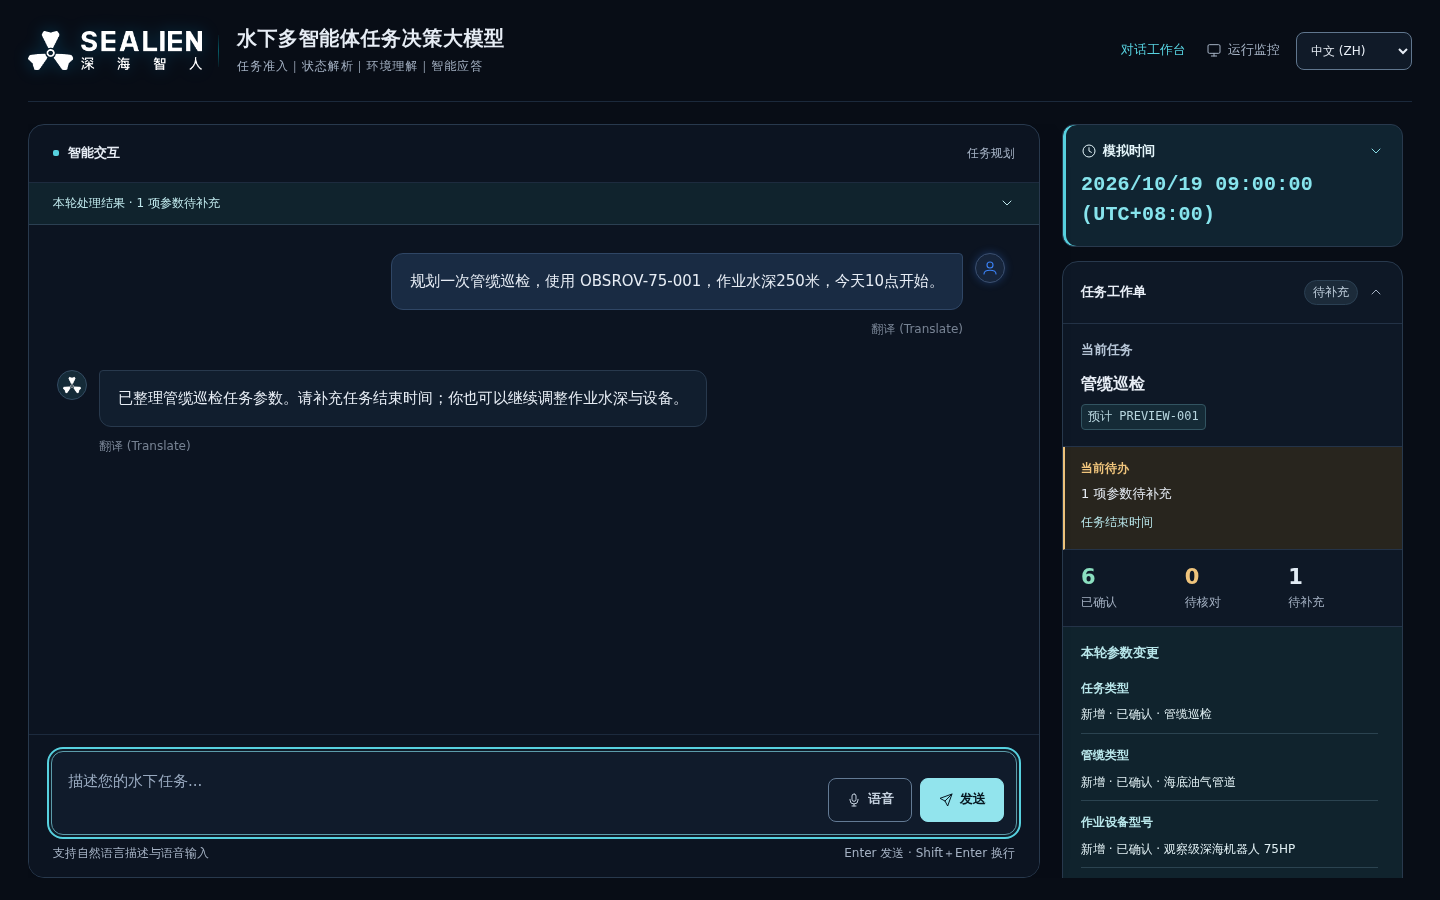
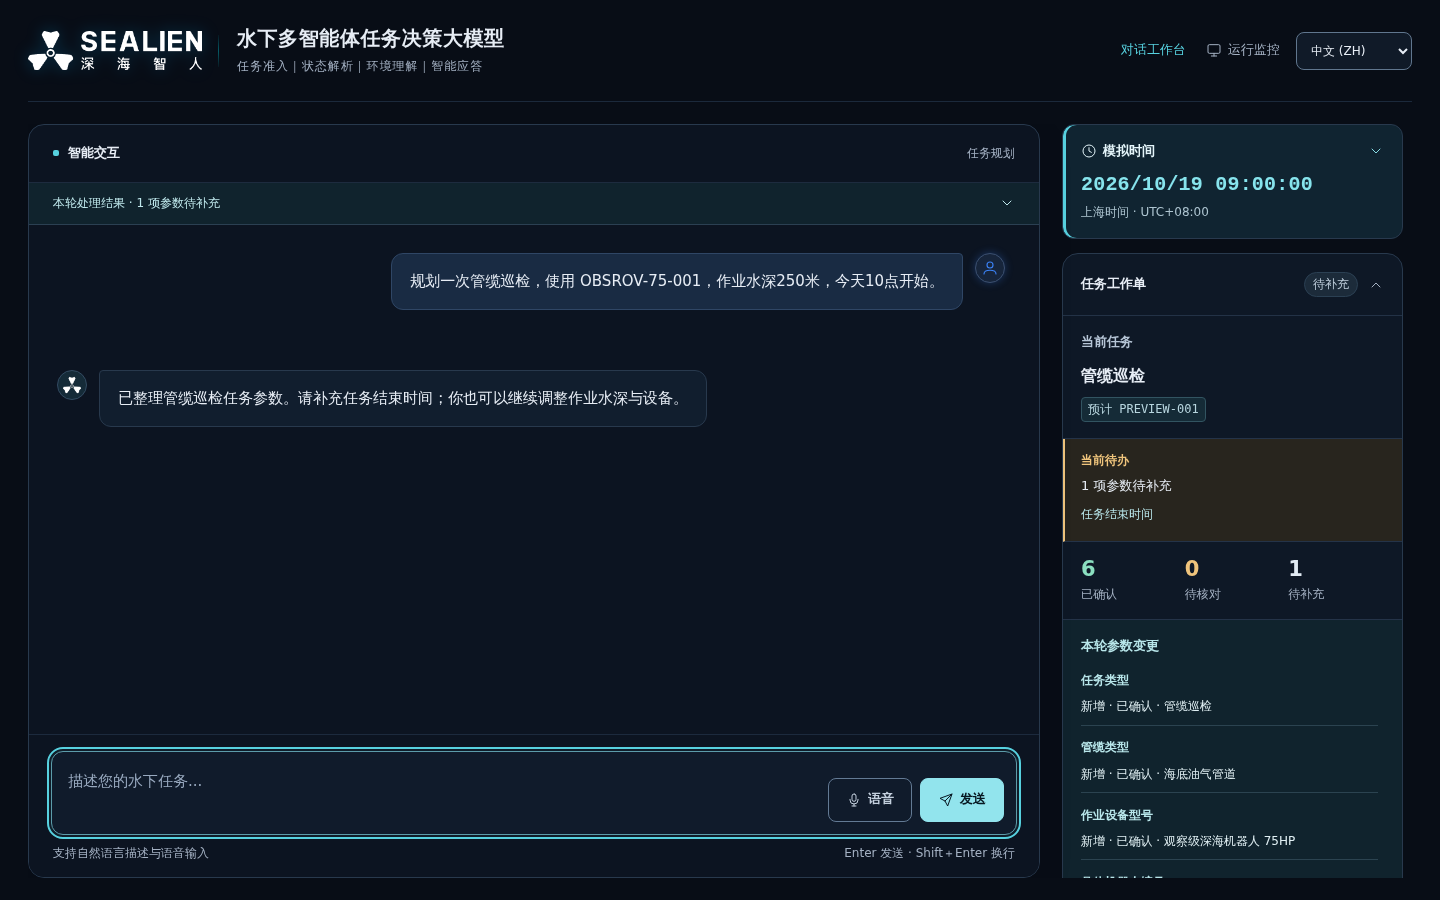
docs: update changelog, docs index, and workspace preview records

diff --git a/docs/ui-preview/index.html b/docs/ui-preview/index.html
@@ -18,7 +18,8 @@
   <section id="monitor"><h2>运行监控</h2><figure><a href="dashboard-desktop.png"><img loading="lazy" src="dashboard-desktop.png" alt="网关任务监控，发送记录与执行反馈独立显示"></a><figcaption>服务端接收遥测时间与浏览器成功拉取时间分别显示。</figcaption></figure>
   <h2>拉取失败后的快照提示</h2><figure><a href="dashboard-snapshot-retained.png"><img loading="lazy" src="dashboard-snapshot-retained.png" alt="连接更新失败，界面保留已有数据并提示旧快照"></a><figcaption>保留最近数据，同时明确其不代表当前状态。</figcaption></figure></section>
   <section id="welcome"><h2>初始首屏</h2><figure><a href="desktop.png"><img loading="lazy" src="desktop.png" alt="桌面初始首屏，知识查询和任务创建入口"></a></figure>
-  <h2>手机布局</h2><div class="pair"><figure class="mobile"><a href="mobile.png"><img loading="lazy" src="mobile.png" alt="手机首屏"></a><figcaption>首屏与折叠工作单</figcaption></figure><figure class="mobile"><a href="task-mobile.png"><img loading="lazy" src="task-mobile.png" alt="手机展开任务工作单与确认摘要"></a><figcaption>展开工作单，可滚动核对字段</figcaption></figure></div></section>
+  <h2>手机任务快捷入口</h2><figure class="mobile"><a href="mobile-task-shortcut.png"><img loading="lazy" src="mobile-task-shortcut.png" alt="手机输入区上方显示任务状态快捷入口，点击可直达工作单"></a><figcaption>入口显示当前任务状态，跳转保留输入草稿；翻译操作在手机端持续可见。</figcaption></figure>
+  <h2>手机布局</h2><div class="pair"><figure class="mobile"><a href="mobile.png"><img loading="lazy" src="mobile.png" alt="手机首屏"></a><figcaption>首屏与任务空态</figcaption></figure><figure class="mobile"><a href="task-mobile.png"><img loading="lazy" src="task-mobile.png" alt="手机展开任务工作单与确认摘要"></a><figcaption>展开工作单，可滚动核对字段</figcaption></figure></div></section>
   <p>本页可直接在浏览器中打开，不需要启动后端；点击截图可查看原图。</p>
 </main>
 </html>

diff --git a/CHANGELOG.md b/CHANGELOG.md
@@ -10,6 +10,106 @@ The format is based on [Keep a Changelog](https://keepachangelog.com/en/1.0.0/).
 
 ## [Unreleased]
 
+### Added & Enhanced — 任务核对优化、移动端工作台与无障碍交互（2026-10-27）
+
+- **工作台字段分组与参数输入引导**：
+  - [frontend/js/task-insights.js](frontend/js/task-insights.js) 引入基于 Section 的参数分组聚合渲染（任务基础属性、时空与环境约束、机器人与执行负载），按业务重要性与填报状态动态排序与状态着色。
+  - 新增参数焦点引导机制（Parameter Focus Guidance），当关键参数缺失时高亮提示并联动输入框聚焦，引导用户高效补充缺失项。
+- **确认卡片紧凑摘要与折叠详情**：
+  - [frontend/js/task-insights.js](frontend/js/task-insights.js) 与 [frontend/css/workspace.css](frontend/css/workspace.css) 重构确认卡片：主区域紧凑展示核心决策字段（任务类型、作业区域、执行设备、启动与持续时间），次要参数与扩展元数据收拢至“查看完整参数详情”折叠面板中，降低用户决策认知负荷。
+- **移动端工作表快捷栏与状态深度同步**：
+  - [frontend/js/workspace.js](frontend/js/workspace.js) 新增移动端（`max-width: 760px`）底部快捷任务栏，引入 `hadActiveTask` 追踪机制，解决移动端初始化空白状态与任务进入时工作表展开/收起（`aria-expanded`）的可见性冲突；支持快速一键直达工作表标题而不丢失当前输入草稿。
+- **翻译条交互与键盘无障碍访问修复**：
+  - [frontend/css/workspace.css](frontend/css/workspace.css) 优化 `msg-translate-bar` CSS 选择器作用域为 `.message:not(:hover):not(:focus-within) .msg-translate-bar[data-translation-state="idle"]`，修复键盘 Tab 键焦点无法触发翻译工具栏显示的样式特异性（specificity）Bug。
+- **UI 资产更新与全量 Playwright 浏览器自动化回归**：
+  - 新增 `docs/ui-preview/task-next-step.png` 与 `docs/ui-preview/confirmation-detail.png` 等多端实测预览图；
+  - 新增 [tests/test_frontend_workspace_browser.py](tests/test_frontend_workspace_browser.py) 浏览器自动化测试套件；
+  - 经验证：Playwright 端到端浏览器测试 74 项用例 100% 通过（67.18s）。
+
+### Fixed & Enhanced — 真实遥测时效对齐与多轮事实锚定 Grounding（2026-10-26）
+
+- **统一遥测新鲜度门禁（Telemetry Freshness Grounding）**：
+  - 新增 [src/telemetry_evidence.py](src/telemetry_evidence.py) 与增强 [src/state/runtime_checker.py](src/state/runtime_checker.py)，建立全局统一遥测时效检查器；严格区分当前新鲜遥测（fresh ≤ 300s）、已过期遥测（stale）与未来预约任务（future scheduled），防止调度器将未来预约任务错误当作当前环境生效。
+- **大模型 Prompt 与回复事实硬锚定（Reply Grounding）**：
+  - [src/handlers/write_reply_grounder.py](src/handlers/write_reply_grounder.py) 与 [src/handlers/task_structure_grounding.py](src/handlers/task_structure_grounding.py) 强化写操作回复事实核验：仅当底层 SlotStore 存在已持久化的真实修改时，才允许模型回复确认或已保存；杜绝大模型在参数被拦截或未生效时回复幻觉。
+- **假设性时间预览与增量载荷解析**：
+  - 新增 [src/handlers/hypothetical_time_preview.py](src/handlers/hypothetical_time_preview.py)，支持“如果现在启动…预计何时结束”等假设性提问的推演预览，不污染当前会话的物理槽位。
+  - [src/handlers/payload_mutation.py](src/handlers/payload_mutation.py) 修复增量列表修改时的目录前缀同步。
+- **海博会演示脚本与现场记录归档**：
+  - 整理并新增 [docs/development/haibo-demo-dialogue.md](docs/development/haibo-demo-dialogue.md)、[docs/development/haibo-demo-dialogue-record-20261021.md](docs/development/haibo-demo-dialogue-record-20261021.md) 以及 [docs/development/haibo-demo-five-hour-submission.md](docs/development/haibo-demo-five-hour-submission.md)，记录 7 轮真实场景演练测试用例。
+
+### Added & Enhanced — 实体抽取稳定化、机器人可行性域选择与品牌资产（2026-10-21）
+
+- **多模态参数标量抽取与时序解析稳定化**：
+  - [src/temporal/temporal_parser.py](src/temporal/temporal_parser.py) 与 [src/temporal/relative_time_parser.py](src/temporal/relative_time_parser.py) 支持小数（如“1.5小时”）与复合持续时间解析。
+  - [src/extraction/coord_parser.py](src/extraction/coord_parser.py) 重构空间坐标提取，增强边界范围检测与起止点约束推断；支持 `water_depth` 水深与 `cable_type` 海缆类型等领域标量参数的精准绑定。
+- **机器人静态可行性硬过滤（Robot Feasibility Filtering）**：
+  - [src/dispatch/catalog_resolver.py](src/dispatch/catalog_resolver.py) 与 [src/knowledge/selection_engine.py](src/knowledge/selection_engine.py) 接入变体静态参数（作业水深上限、载荷承载阈值），在候选池初筛阶段剔除不符合物理条件的机器人型号或系列。
+- **写操作回复事实核验与子句级历史作用域隔离**：
+  - [src/handlers/explicit_value_grounding.py](src/handlers/explicit_value_grounding.py) 与 [src/handlers/oilfield_confirmation.py](src/handlers/oilfield_confirmation.py) 引入子句级撤回与冲突保护，用户在修改参数或否定旧参数时精确清除旧事实，避免历史槽位脏读。
+- **SEALIEN 品牌视觉资产与无损图标接入**：
+  - 引入 SEALIEN 官方蓝色/白色高保真 Logo、69x69 无损螺旋桨 Mark 图标与全套 favicon 资产，统一前端工作台视觉规范。
+  - 新增 [docs/architecture/session-confirmation-recovery.md](docs/architecture/session-confirmation-recovery.md) 文档。
+
+### Refactored — 机器人单机解析上下文增强与设备级联重构（2026-10-20）
+
+- **单机编号注入父级系列与型号上下文**：
+  - [src/knowledge/unit_resolver.py](src/knowledge/unit_resolver.py) 与 [src/handlers/equipment_cascade.py](src/handlers/equipment_cascade.py) 重构：在 Unit 单机编号解析（如“1号机/2号机”）时主动注入父级 Family（系列）和 Variant（型号）上下文，消除同名编号在不同型号间的歧义绑定。
+- **设备多级从属交互推导**：
+  - 优化 [src/knowledge/selection_engine.py](src/knowledge/selection_engine.py) 与 [src/knowledge/query_executor.py](src/knowledge/query_executor.py)，支持采油树（“深海1号”）级联推导相关水下阀门和机器人组别。
+
+### Added — 前端遥测仪表板与实时确认卡片集成（2026-10-19）
+
+- **前端遥测仪表板（LLM Telemetry Dashboard）**：
+  - [frontend/index.html](frontend/index.html) 与 [frontend/js/index.js](frontend/js/index.js) 集成模型性能与遥测状态看板，实时直观展示上下文预算（context tokens）、推理耗时、网络延迟与遥测新鲜度状态灯。
+- **结构化确认卡片交互组件**：
+  - 在消息流中提供结构化确认卡片，支持多行核对、约束状态展示与一键交互。
+- **矢量图标与现代 UI 资产扩充**：
+  - 新增 11 个现代纯矢量 SVG 图标（`clock.svg`, `edit.svg`, `history.svg`, `mic.svg`, `publish.svg`, `reset.svg`, `stop.svg`, `send.svg` 等），提升界面工程质感。
+
+### Added & Fixed — 整轮编辑保护、时序范围隔离与工作台增强（2026-10-19）
+
+- **整轮编辑保护与断言范围检测（Whole-Turn Edit Protection）**：
+  - 新增 [src/extraction/assertion_scope.py](src/extraction/assertion_scope.py)，在单轮多子句输入中识别撤销、修改与保持语句的作用域边界。
+- **时序与载荷跨轮隔离保护**：
+  - 在 [src/temporal/temporal_parser.py](src/temporal/temporal_parser.py) 和 [src/handlers/payload_mutation.py](src/handlers/payload_mutation.py) 中接入断言作用域，防止用户在一句话中提到“不要A只要B”时旧状态污染。
+- **会话竞态 HTTP 409 保护**：
+  - 在 [src/web/routes_chat.py](src/web/routes_chat.py) 中增加会话并发重置/查询互斥保护，当客户端在处理长请求期间重置或并发修改会话时，明确返回 HTTP 409 Conflict，防止会话状态被静默覆盖。
+- **工作台 UI、Task Insights HUD 与 ROS 2 监控升级**：
+  - 重构 [frontend/js/task-insights.js](frontend/js/task-insights.js) 和 [frontend/js/workspace.js](frontend/js/workspace.js)，引入专业海洋工程 HUD 界面、任务槽位实时生命周期展示与 ROS 2 执行进度看板。
+- **UI 预研与国际主流工业界面对标**：
+  - 撰写 [docs/ui-references/README.md](docs/ui-references/README.md)，对标 Palantir Workshop、Foxglove Agent、Kongsberg OceanView 与 Greensea Workspace 架构设计；新增 [docs/progress/2026-10-19-whole-turn-protection-fixes.md](docs/progress/2026-10-19-whole-turn-protection-fixes.md)。
+
+### Fixed — 空间约束 C033 管缆巡检起止重合端点强阻断（2026-10-19）
+
+- **空间硬约束 C033 规则落地**：
+  - [config/constraints.yaml](config/constraints.yaml) 补充定义 `C033` 规则（管缆巡检任务必须具有位移距离，起点与终点不能重合）。
+  - [src/validation/spatial_validator.py](src/validation/spatial_validator.py) 实现 `start_end_points_distinct` 校验方法并在 [src/validation/validator.py](src/validation/validator.py) 注册，彻底杜绝起点终点坐标相同时通过审核；约束失败直接硬阻断（`blocked_hard`），必须由用户修正坐标。
+
+### Added — 请求重放幂等缓存、SSE 进度流式通知与生命周期追踪（2026-10-16）
+
+- **有限请求重放缓存（ChatRequestCache）**：
+  - 新增 [src/web/chat_request_cache.py](src/web/chat_request_cache.py) 提供基于请求指纹的 bounded replay cache，杜绝网络重试引发的重复执行和状态重复漂移，提升接口幂等性。
+- **SSE 实时进度流式通知（Live Progress Streaming）**：
+  - 新增 [src/web/chat_stream.py](src/web/chat_stream.py)，支持在长耗时推理和校验阶段主动向前端推送阶段事件（`intent_routing` -> `slot_extraction` -> `constraint_checking` -> `done`），前端 [frontend/js/index.js](frontend/js/index.js) 接入全生命周期跟踪。
+
+### Fixed — 载荷显式删除保护与装备目录前缀同步（2026-10-16）
+
+- **载荷显式删除与保留子句同步（Payload Mutations）**：
+  - [src/handlers/payload_mutation.py](src/handlers/payload_mutation.py) 修复复合指令中“保留机械手但去掉声呐”场景下删除指令被保留子句覆盖的漏洞，确保删除与保留意图在同一轮处理中均生效，并同步目录前缀。
+
+### Fixed — 复合持续时间解析与显式时间回复事实锚定（2026-10-16）
+
+- **裸半数时长复合解析修复（Temporal Composite Parsing）**：
+  - [src/temporal/duration_parser.py](src/temporal/duration_parser.py) 与 [src/temporal/temporal_parser.py](src/temporal/temporal_parser.py) 修复“一个半小时”、“半天”等自然语言时长的复合提取缺陷。
+- **显式时间回复事实锚定**：
+  - [src/handlers/write_reply_grounder.py](src/handlers/write_reply_grounder.py) 增强时间回复事实证据比对，避免在用户指定绝对时间时回复未格式化或过时的时区推断。
+
+### Docs — 大模型真实边界复测记录与压力测试归档（2026-10-16）
+
+- **真实模型边界测试与压力验证归档**：
+  - 补充归档 [docs/progress/2026-10-15-real-model-followup.md](docs/progress/2026-10-15-real-model-followup.md)、[docs/progress/2026-10-15-stress-boundary-followup.md](docs/progress/2026-10-15-stress-boundary-followup.md) 及 [docs/progress/2026-10-15-stress-boundary-fixes.md](docs/progress/2026-10-15-stress-boundary-fixes.md)，记录基于本地真实 Qwen3.5-9B 模型的并发、压力测试与长对话评测事实。
+
 ### Refactored — Dispatch 领域 TaskIntent 上帝代码解耦与职责分治（2026-10-15）
 
 - **抽离底层原子文件锁与写入基础设施**：新增 [src/dispatch/atomic_task_storage.py](src/dispatch/atomic_task_storage.py)（83 行），专职负责 `TaskPublishLock`（跨进程排他锁）、`TaskCommitUncertainError`、`_write_all`（POSIX 完整写入保障）与 `_atomic_commit_noreplace`（`os.link` 原子无覆盖发布机制）。

diff --git a/docs/architecture/frontend-workspace.md b/docs/architecture/frontend-workspace.md
@@ -6,7 +6,7 @@
 
 - 保留深色、青色与左右双栏。取消全文扫描线与大面积发光，用背景层级、边框、间距区分内容。监控页面和连接凭据弹窗使用同一套视觉方向。
 - 首屏展示知识查询、任务创建两个入口。示例只填入输入框，不发送请求；发送首条用户消息后收起欢迎区。完整能力说明继续来自 `index.js` 的 `I18N[currentLang].welcomeMsg`，放在可展开的使用说明中。
-- 侧栏按任务状态展示工作单；没有任务时隐藏空字段、警告与发送卡。模拟时间置顶、加粗，其设置折叠。手机端工作单默认折叠，支持键盘展开；对话区保持输入框可见。
+- 侧栏按任务状态展示工作单；没有任务时隐藏空字段、警告与发送卡。模拟时间置顶、加粗，其设置折叠。手机端首次进入有任务状态时折叠工作单，支持键盘展开；对话区保持输入框可见。
 - 工作单分别统计已确认、待核对与待补充字段，显示字段来源及本轮变化。任务名称下呈现当前待办和定位入口，参数按设备、作业、时间等类别分组。待确认时，关键参数直接展示，其余参数可展开查看；确认摘要随工作单滚动，字段可点击定位。
 - 对话顶部的可展开回执展示最终快照中的参数、校验状态、校验时间和所用设备状态信息。历史恢复明确标为恢复状态，不生成模型思考过程或工具调用时间线。
 - 输入框支持多行与自动增高。保留中文输入法组合期间不提交、Enter 发送、Shift+Enter 换行的规则。语音增加计时、取消和纠正对比；取消转写后，迟到响应不得填入或发送。
@@ -25,6 +25,13 @@
 - 字段分组仅改变展示顺序，保留原字段内容、候选操作与事件监听。未知字段归入其他参数，来源、风险与本轮变化继续可见。
 - 确认摘要只展示有效值，字段值使用 14px 字号；参数较多时优先呈现任务、设备、水深和起止时间，其余参数通过带数量的折叠入口查看。校验状态及已接受风险始终位于折叠区域外。
 - 同一任务重绘和语言切换保留摘要展开状态；切换任务和重置清除展开状态。发布按钮沿用已有权限、防重复提交及确认令牌校验。
+
+### 操作细节优化（2026-10-27）
+
+- 模拟时间主值继续使用 20px/700，上海时区改为独立 12px 辅助标签。显示、编辑和设置仍按 `Asia/Shanghai` / `+08:00` 处理，不受浏览器本地时区影响。
+- 翻译按钮使用简洁的当前语言文案和统一线性图标。桌面鼠标环境下，空闲操作随消息悬停或键盘聚焦显示；手机和触摸环境持续显示。翻译中、失败提示、质量警告及返回原文入口持续可见，原有翻译请求版本保护保持不变。
+- 手机输入区增加任务快捷入口，显示真实任务阶段、只读状态或待补充/核对数量。点击只打开工作单并聚焦标题，不提交指令，也不修改输入草稿；无任务和重置后隐藏。
+- “回到最新消息”按钮根据消息区与输入区的实际高度定位，适配快捷入口、多行草稿和语音相关面板，不因尺寸变化自动滚动历史消息。
 
 ## 文件职责
 
@@ -77,6 +84,8 @@ TRANSFORMERS_OFFLINE=1 HF_HUB_OFFLINE=1 python -m pytest -q
 2026-10-27 任务核对优化验证：完整工作台浏览器模块与 `test_frontend_review_regressions.py` 合计 **74 passed**；前端完整性、Markdown、欢迎内容、请求生命周期、字段证据、载荷编辑和审阅契约的定向回归合计 **39 passed、12 subtests passed**。新增六项行为用例覆盖待办定位不提交、阻塞优先与只读状态、关键参数和风险提示常显、短摘要完整呈现、展开状态隔离、未知字段保留及键盘定位。工作台预览已刷新，并补充当前待办和确认卡片细节截图。本次没有运行后端全量测试。
 
 补充隔离浏览器检查：320px/390px 英文长摘要在折叠和展开时均无横向溢出，参数值实测 14px；风险及待校验提示保持在折叠区外。字段分组后，载荷修改仍发送一次原指令，冲突参数修改仍仅填入草稿；过期或异常校验的待办不展示旧阻塞操作，重置隐藏待办。检查未发现 JavaScript 异常。
+
+后三项操作优化新增三项浏览器行为用例，覆盖手机任务入口的状态、键盘定位与草稿保留，以及桌面翻译按钮的键盘可发现性和翻译往返。已有三种时间偏移用例同时验证独立时区标签、`datetime`、语言切换和时间编辑往返。
 
 浏览器检查在具有 Playwright 的 Python 环境实际执行；该环境缺少 pytest-asyncio，出现一条 `asyncio_mode` 配置警告，不影响同步浏览器用例。项目全量回归使用安装了项目测试依赖的独立 Python 环境。
 

diff --git a/docs/README.md b/docs/README.md
@@ -1,6 +1,6 @@
 # 文档索引
 
-整理日期：2026-09-30。当前实现以代码、配置和实际测试结果为依据；历史报告中的用例数量、阈值和缺陷状态只对应记录时的版本。逐文件范围、修订状态和剩余证据缺口见[文档审查清单](documentation-audit.md)。
+整理日期：2026-10-27。当前实现以代码、配置和实际测试结果为依据；历史报告中的用例数量、阈值和缺陷状态只对应记录时的版本。逐文件范围、修订状态和剩余证据缺口见[文档审查清单](documentation-audit.md)。
 
 ## 当前使用与维护
 
@@ -8,8 +8,11 @@
 | --- | --- |
 | 安装与启动 | [项目 README](../README.md) |
 | 运行架构、模块状态、遥测门禁 | [架构总览](architecture/overview.md) |
+| 前端工作台、HUD 监控与移动端交互 | [前端工作台架构](architecture/frontend-workspace.md) |
+| 会话确认、快照恢复与生命周期 | [会话确认与恢复架构](architecture/session-confirmation-recovery.md) |
 | 路由、槽位、候选和持久化契约 | [当前设计契约](current_design_contract.md) |
 | 归档、发送状态与重试边界 | [执行下发契约](execution_dispatch_contract.md) |
+| 海博会演示脚本与多轮演练用例 | [海博会演示脚本](development/haibo-demo-dialogue.md) |
 | 自动化测试、CPU/GPU 环境与产物隔离 | [开发测试指南](development/testing.md) |
 | 治理场景与对应测试 | [验收矩阵](development/governance-acceptance-matrix.md) |
 | ROS 2 配置与集成 | [运行配置设计](architecture/ros2_runtime_configuration.md)、[ROS MCP 说明](../mcp/ros-mcp/README.md) |
@@ -27,6 +30,8 @@
 - [2026-10-15 真实用户压力与边界测试](progress/2026-10-15-stress-boundary-followup.md) 保留修复前的组合时长、载荷指令、并发、流式响应和发布边界实测结果。
 - [2026-10-15 压力与边界问题修复](progress/2026-10-15-stress-boundary-fixes.md) 记录后续时间/载荷修复、有限请求重放、实时进度，以及定向、全量、真实模型和归档恢复的独立验证证据与保留限制。
 - [2026-10-19 整轮限制与状态查询修复](progress/2026-10-19-whole-turn-protection-fixes.md) 记录任务、时间和载荷修改限制的作用范围、状态查询与重置竞态，以及本轮回归和真实模型验证结果。
+- [海博会 7 轮真实场景演示对话记录与 5 小时交付用例](development/haibo-demo-dialogue-record-20261021.md) 记录海博会实地演练多轮交互用例及验收。
+- [现代工业 UI 设计参考体系与端到端预览](ui-references/README.md) 对标 Palantir Workshop、Foxglove Agent、Kongsberg OceanView 与 Greensea Workspace。
 - [海流 MCP 设计与实现状态](../mcp/operation-time-window/DESIGN_SPEC.md) 描述独立模块的现状；[历史海流测试记录](../mcp/operation-time-window/evidence/current_status.json) 文件名中的 `current` 不代表实时结果。该模块尚未成为主 DialogueManager 的默认运行链路。
 - ROS MCP 的[当前协议报告](../mcp/ros-mcp/docs/adapter_specification_report.md)及[2026-09-30 协议核对 PDF](../mcp/ros-mcp/docs/SEAgent_ROS2_MCP_Protocol_Review_20260930.pdf)区分生产适配器和 stdio Mock；[原集成 PDF](../mcp/ros-mcp/docs/SEAgent_ROS2_MCP_Integration_Report.pdf)保留为历史材料，不能独立作为现行接口说明。
 - 时间调研的[来源核对与实现边界](../artifacts/temporal-research-source-review.md)及[PDF](../artifacts/temporal-research-source-review.pdf)补充本次核实的一手资料、当前代码对照和定向测试；[原草案](../artifacts/deep-research-report.md)仍保留历史方案属性，旧引用的原 URL 映射尚未恢复。
